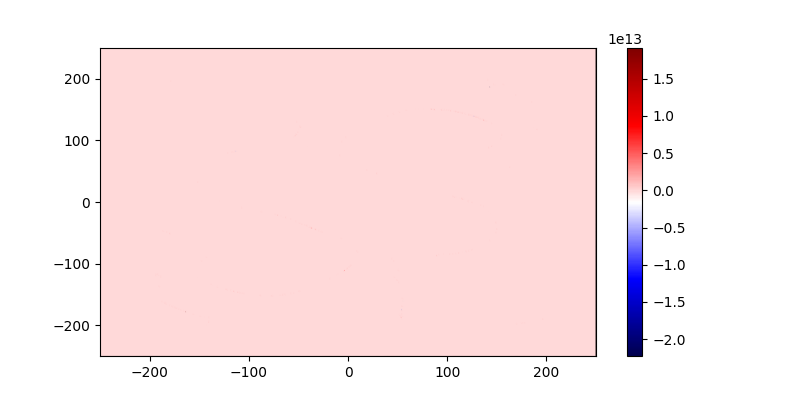
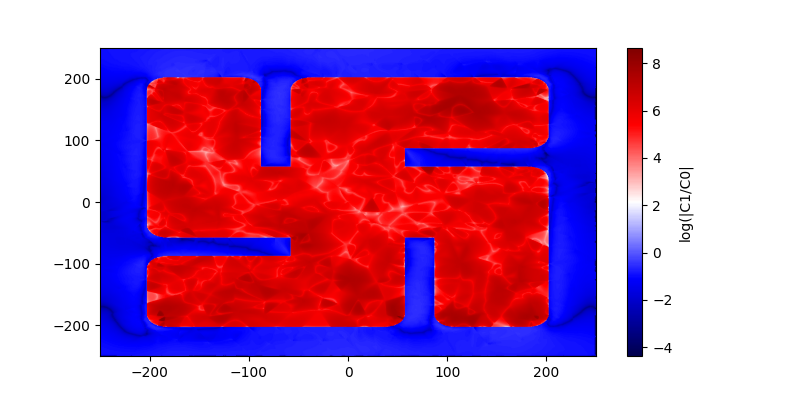
yay log gammadian good

diff --git a/nearfield_architect.py b/nearfield_architect.py
@@ -35,12 +35,21 @@ def ChiralDensityPlot(folder, trans_wvl, heights, azis):
                 if first:
                    C1 = C0
                    first = False
-            data = C1/C0
+            lam = 210*1e-9
+            c0 = 299792458
+            n = (1)**0.5
+            omega = (2*np.pi*c0)/(lam)
+            eps0 = 8.854*1e-12
+            norm_A_sqr = 2
+            C0 = np.abs((eps0*omega)/(2*c0))*norm_A_sqr
+
+            data = np.log10(np.abs(C1/C0))
             fdata = scipy.ndimage.median_filter(data,size=(4,4))
             fig, ax = plt.subplots(figsize=(8,4))
             plt.subplot(1,1,1)
-            plot1 = plt.pcolormesh(cfb['X']*10**9, cfb['Y']*10**9, C1/C0, cmap=plt.cm.seismic, shading='gouraud')
-            cb = plt.colorbar(plot1)     
+            plot1 = plt.pcolormesh(cfb['X']*10**9, cfb['Y']*10**9, fdata, cmap=plt.cm.seismic, shading='gouraud')
+            
+            cb = plt.colorbar(plot1, label="log(|C1/C0|")     
             plt.savefig("gammadian azi"+str(azi)+str(wvl)+"realnormalized.png")
 azis = ['']
 lambdas = [200, 210]
